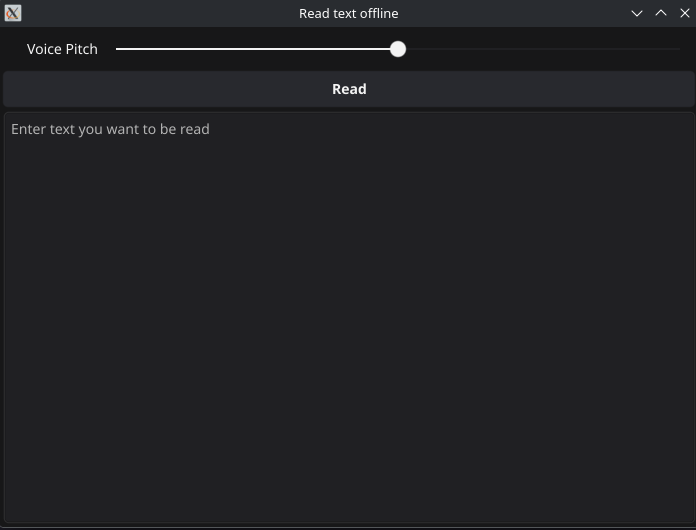
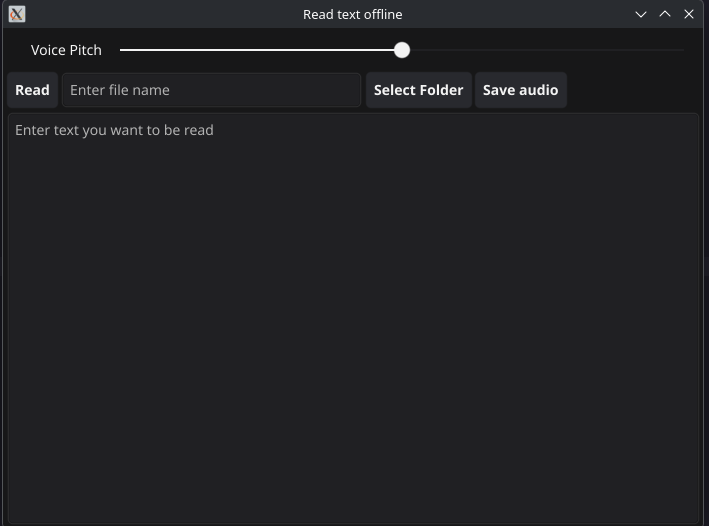
docs: actualizado

diff --git a/docs/docs.md b/docs/docs.md
@@ -52,7 +52,9 @@ To learn how to obtain your own Youtube's API key you can [follow official guide
 
 ## Read text offline
 
-This let you read any text you put in the text area without the need to connect to any platform
+This let you read any text you put in the text area without the need to connect to any platform.
+
+Also, you can save the audio clips as wav files, first you need to enter a filename, and then select a folder in which the file will be saved
 
 ![Read text offline's window](./img/read-offline.png)
 
